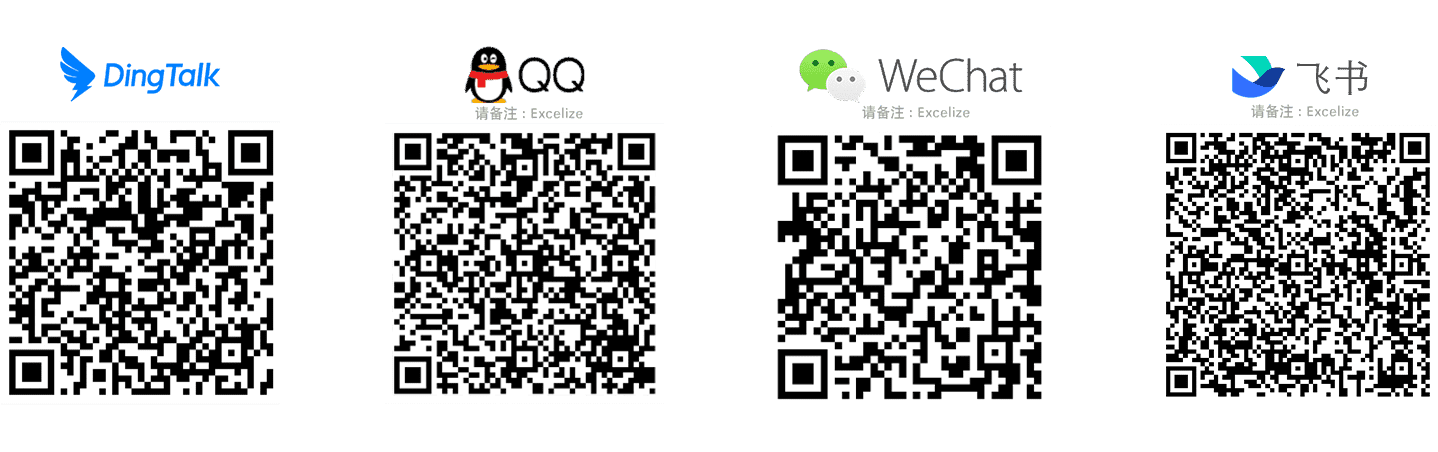
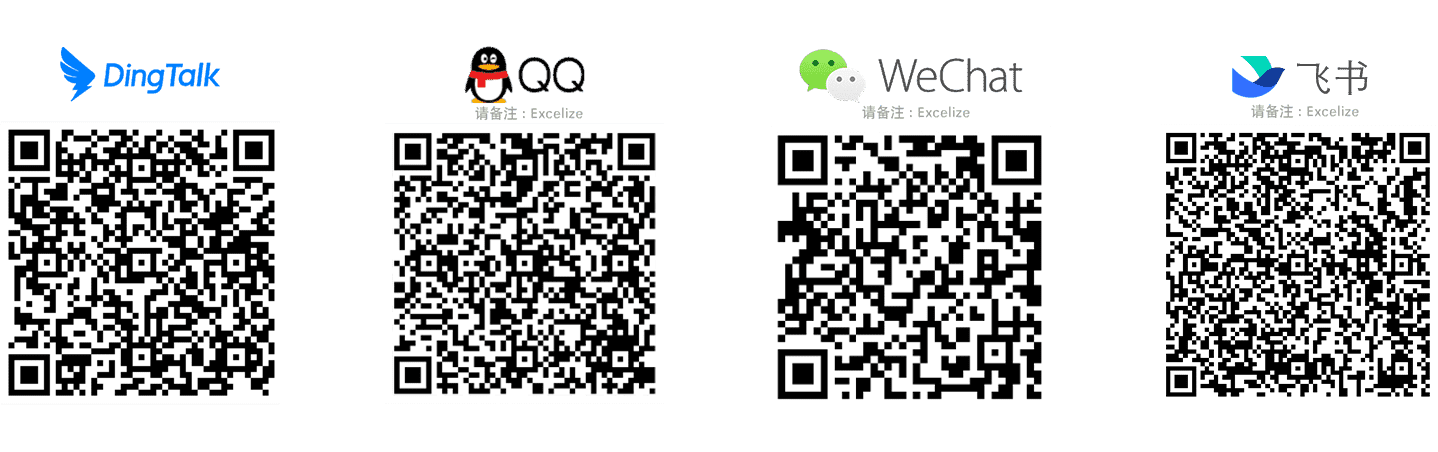
Update minimum Go language version requirements
- Fix typo in the Chinese version release notes
- Update expired the DingTalk group QR code

Changed region(s): [[0.0, 0.2788, 0.2142, 0.8982]]

diff --git a/zh-hans/releases/v2.8.1.md b/zh-hans/releases/v2.8.1.md
@@ -81,7 +81,7 @@
 * 更新了简体中文和繁体中文语言的预设数字格式列表
 * 修复了部分情况下，自定义数字格式索引生成有误的问题，解决 issue [#1677](https://github.com/xuri/excelize/issues/1677)
 * 修复通过删除后再添加表格方式更新表格区域范围时出现错误的问题，解决 issue [#1682](https://github.com/xuri/excelize/issues/1682)
-* 修复在使用流失读取函数后，所产生的临时文件无法被清理的潜在问题，解决 issue [#1680](https://github.com/xuri/excelize/issues/1680)
+* 修复在使用流式读取函数后，所产生的临时文件无法被清理的潜在问题，解决 issue [#1680](https://github.com/xuri/excelize/issues/1680)
 * 修复部分情况下公式计算结果有误的问题，解决 issue [#1681](https://github.com/xuri/excelize/issues/1681)
 * 修复并发读取单元格的值时出现的竞态问题，解决 issue [#1687](https://github.com/xuri/excelize/issues/1687)
 * 修复根据样式索引获取样式定义时，部分样式定义缺失问题，解决 issue [#1708](https://github.com/xuri/excelize/issues/1708)

diff --git a/zh-tw/releases/v2.8.1.md b/zh-tw/releases/v2.8.1.md
@@ -81,7 +81,7 @@
 * 更新了簡體中文和繁體中文語言的預設數字格式列表
 * 修復了部分情況下，自訂數字格式索引生成有誤的問題，解決 issue [#1677](https://github.com/xuri/excelize/issues/1677)
 * 修復透過刪除後再添加表格方式更新表格區域範圍時出現錯誤的問題，解決 issue [#1682](https://github.com/xuri/excelize/issues/1682)
-* 修復在使用流失讀取函式後，所產生的臨時文件無法被清理的潛在問題，解決 issue [#1680](https://github.com/xuri/excelize/issues/1680)
+* 修復在使用流式讀取函式後，所產生的臨時文件無法被清理的潛在問題，解決 issue [#1680](https://github.com/xuri/excelize/issues/1680)
 * 修復部分情況下公式計算結果有誤的問題，解決 issue [#1681](https://github.com/xuri/excelize/issues/1681)
 * 修復併發讀取存儲格的值時出現的競態問題，解決 issue [#1687](https://github.com/xuri/excelize/issues/1687)
 * 修復根據樣式索引獲取樣式定義時，部分樣式定義缺失問題，解決 issue [#1708](https://github.com/xuri/excelize/issues/1708)

diff --git a/fr/base/installation.md b/fr/base/installation.md
@@ -6,7 +6,8 @@ Le tableau suivant indique les exigences minimales du langage Go avec chaque ver
 
 Version Excelize | Configuration minimale requise pour la version de la langue Go
 ---|---
-v2.7.0 | 1.16
+v2.8.1 | 1.18
+v2.7.0 ~ v2.8.0 | 1.16
 v2.4.0 ~ v2.6.1 | 1.15
 v2.0.2 ~ v2.3.2 | 1.10
 v1.0.0 ~ v2.0.1 | 1.6

diff --git a/es/base/installation.md b/es/base/installation.md
@@ -6,7 +6,8 @@ La siguiente tabla muestra los requisitos mínimos del lenguaje Go con cada vers
 
 Versión Excelize | Requisitos mínimos de la versión del idioma Go
 ---|---
-v2.7.0 | 1.16
+v2.8.1 | 1.18
+v2.7.0 ~ v2.8.0 | 1.16
 v2.4.0 ~ v2.6.1 | 1.15
 v2.0.2 ~ v2.3.2 | 1.10
 v1.0.0 ~ v2.0.1 | 1.6

diff --git a/de/base/installation.md b/de/base/installation.md
@@ -6,7 +6,8 @@ Die folgende Tabelle zeigt die Mindestanforderungen der Go-Sprache für jede ver
 
 Excelize-Version | Mindestanforderungen für die Go-Sprachversion
 ---|---
-v2.7.0 | 1.16
+v2.8.1 | 1.18
+v2.7.0 ~ v2.8.0 | 1.16
 v2.4.0 ~ v2.6.1 | 1.15
 v2.0.2 ~ v2.3.2 | 1.10
 v1.0.0 ~ v2.0.1 | 1.6

diff --git a/pt/base/installation.md b/pt/base/installation.md
@@ -6,7 +6,8 @@ A tabela a seguir mostra os requisitos mínimos da linguagem Go com cada versão
 
 Versão Excelize | Requisitos mínimos de versão do idioma Go
 ---|---
-v2.7.0 | 1.16
+v2.8.1 | 1.18
+v2.7.0 ~ v2.8.0 | 1.16
 v2.4.0 ~ v2.6.1 | 1.15
 v2.0.2 ~ v2.3.2 | 1.10
 v1.0.0 ~ v2.0.1 | 1.6

diff --git a/en/base/installation.md b/en/base/installation.md
@@ -6,7 +6,8 @@ The following table shows the minimum requirements of Go language with each Exce
 
 Excelize Version | Minimum Go Language Version Requirements
 ---|---
-v2.7.0 | 1.16
+v2.8.1 | 1.18
+v2.7.0 ~ v2.8.0 | 1.16
 v2.4.0 ~ v2.6.1 | 1.15
 v2.0.2 ~ v2.3.2 | 1.10
 v1.0.0 ~ v2.0.1 | 1.6

diff --git a/ru/base/installation.md b/ru/base/installation.md
@@ -6,7 +6,8 @@
 
 Версия Excelize | Минимальные требования к языковой версии Go
 ---|---
-v2.7.0 | 1.16
+v2.8.1 | 1.18
+v2.7.0 ~ v2.8.0 | 1.16
 v2.4.0 ~ v2.6.1 | 1.15
 v2.0.2 ~ v2.3.2 | 1.10
 v1.0.0 ~ v2.0.1 | 1.6

diff --git a/ar/base/installation.md b/ar/base/installation.md
@@ -6,7 +6,8 @@
 
 الإصدار Excelize | الحد الأدنى من متطلبات إصدار لغة Go
 ---|---
-v2.7.0 | 1.16
+v2.8.1 | 1.18
+v2.7.0 ~ v2.8.0 | 1.16
 v2.4.0 ~ v2.6.1 | 1.15
 v2.0.2 ~ v2.3.2 | 1.10
 v1.0.0 ~ v2.0.1 | 1.6

diff --git a/ja/base/installation.md b/ja/base/installation.md
@@ -6,7 +6,8 @@
 
 Excelize バージョン | Go 言語の最小バージョン要件
 ---|---
-v2.7.0 | 1.16
+v2.8.1 | 1.18
+v2.7.0 ~ v2.8.0 | 1.16
 v2.4.0 ~ v2.6.1 | 1.15
 v2.0.2 ~ v2.3.2 | 1.10
 v1.0.0 ~ v2.0.1 | 1.6

diff --git a/ko/base/installation.md b/ko/base/installation.md
@@ -6,7 +6,8 @@
 
 Excelize 버전 | 최소 Go 언어 버전 요구 사항
 ---|---
-v2.7.0 | 1.16
+v2.8.1 | 1.18
+v2.7.0 ~ v2.8.0 | 1.16
 v2.4.0 ~ v2.6.1 | 1.15
 v2.0.2 ~ v2.3.2 | 1.10
 v1.0.0 ~ v2.0.1 | 1.6

diff --git a/zh-hans/base/installation.md b/zh-hans/base/installation.md
@@ -6,7 +6,8 @@
 
 Excelize 版本 | 对 Go 语言版本的最低要求
 ---|---
-v2.7.0 | 1.16
+v2.8.1 | 1.18
+v2.7.0 ~ v2.8.0 | 1.16
 v2.4.0 ~ v2.6.1 | 1.15
 v2.0.2 ~ v2.3.2 | 1.10
 v1.0.0 ~ v2.0.1 | 1.6
